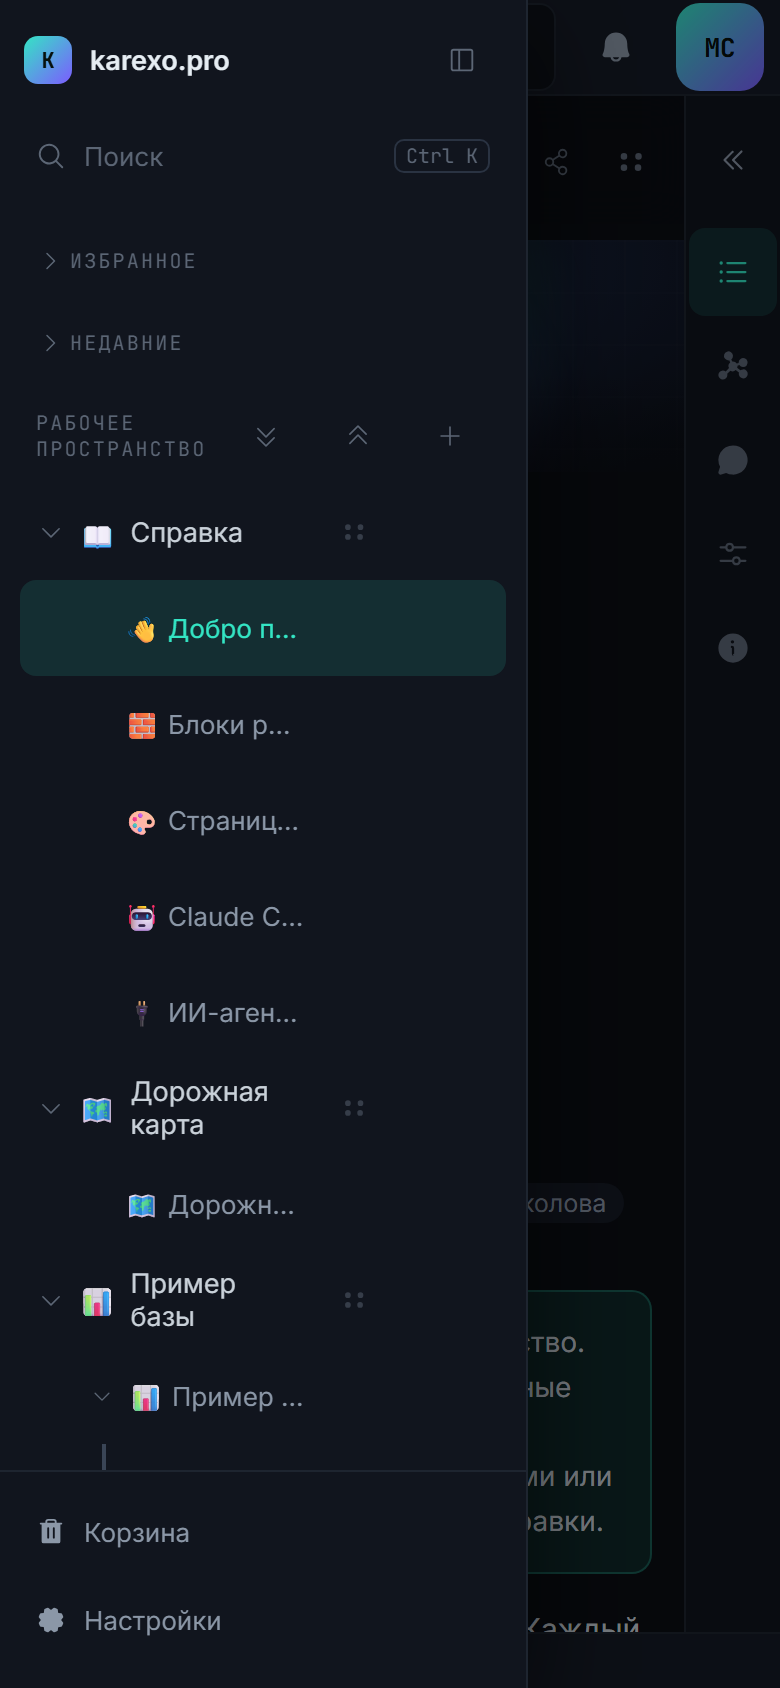
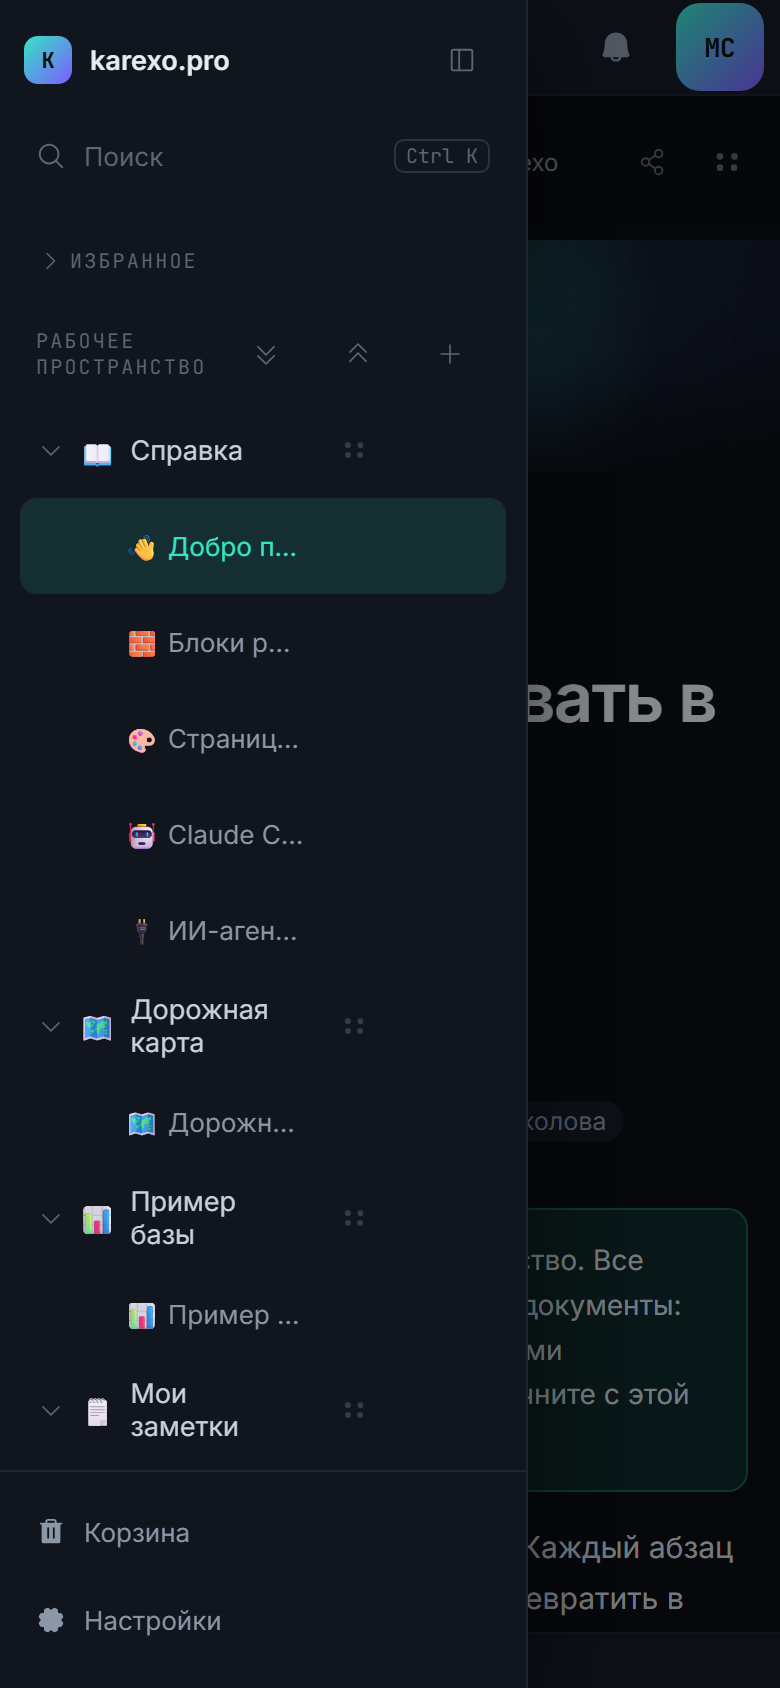
Справка догнала мобильную раскладку
На телефоне правая панель больше не стоит столбиком иконок вдоль края -
её открывает кнопка в шапке. Снимки телефона и планшета пересняты, добавлен
четвёртый: панель поверх страницы. Раздел «На телефоне и планшете» описывает,
как её открыть и чем она закрывается.

diff --git a/docs/getting-started.md b/docs/getting-started.md
@@ -60,9 +60,13 @@ flowchart LR
 слева вверху, меню `/` и панель форматирования выезжают снизу - под большой палец, а колонки
 таблицы разворачиваются в карточки «свойство - значение».
 
-| Телефон | Ящик с деревом страниц | Планшет |
-|---|---|---|
-| ![Страница на телефоне](screenshots/mobile.png) | ![Дерево страниц выдвижным ящиком](screenshots/mobile-nav.png) | ![Страница на планшете](screenshots/tablet.png) |
+Правая панель на телефоне не занимает ширину: её открывает кнопка **«Панель страницы»** в шапке,
+справа от поиска. Панель ложится поверх страницы и закрывается сама, как только вы перешли по
+заголовку из оглавления или по бэклинку; ещё её закрывают тап мимо и `Esc`.
+
+| Телефон | Ящик с деревом страниц | Панель страницы | Планшет |
+|---|---|---|---|
+| ![Страница на телефоне](screenshots/mobile.png) | ![Дерево страниц выдвижным ящиком](screenshots/mobile-nav.png) | ![Оглавление поверх страницы](screenshots/mobile-dock.png) | ![Страница на планшете](screenshots/tablet.png) |
 
 ### Разделы боковой панели
 

diff --git a/CHANGELOG.md b/CHANGELOG.md
@@ -9,7 +9,21 @@
 
 ## [Не выпущено]
 
-Пока пусто - всё сделанное вошло в 0.2.0-beta.1.
+### Изменено
+
+- **Телефон: правая панель больше не занимает место.** Столбик иконок вдоль
+  правого края отнимал у строки текста восьмую часть экрана. Теперь на телефоне
+  его нет, а оглавление, граф, комментарии и свойства открываются кнопкой
+  «Панель страницы» в шапке - зеркально кнопке бокового меню слева. Панель
+  закрывается сама, когда вы перешли по заголовку или бэклинку. На планшете и
+  на большом экране всё как было.
+
+### Исправлено
+
+- Заголовок колонки в таблице базы на планшете и телефоне нажимался только по
+  самой строчке текста - палец попадал мимо. Теперь нажимается вся ячейка.
+- Открытие правой панели на телефоне переставляло настройку «панель свёрнута»
+  для большого экрана.
 
 ---
 
